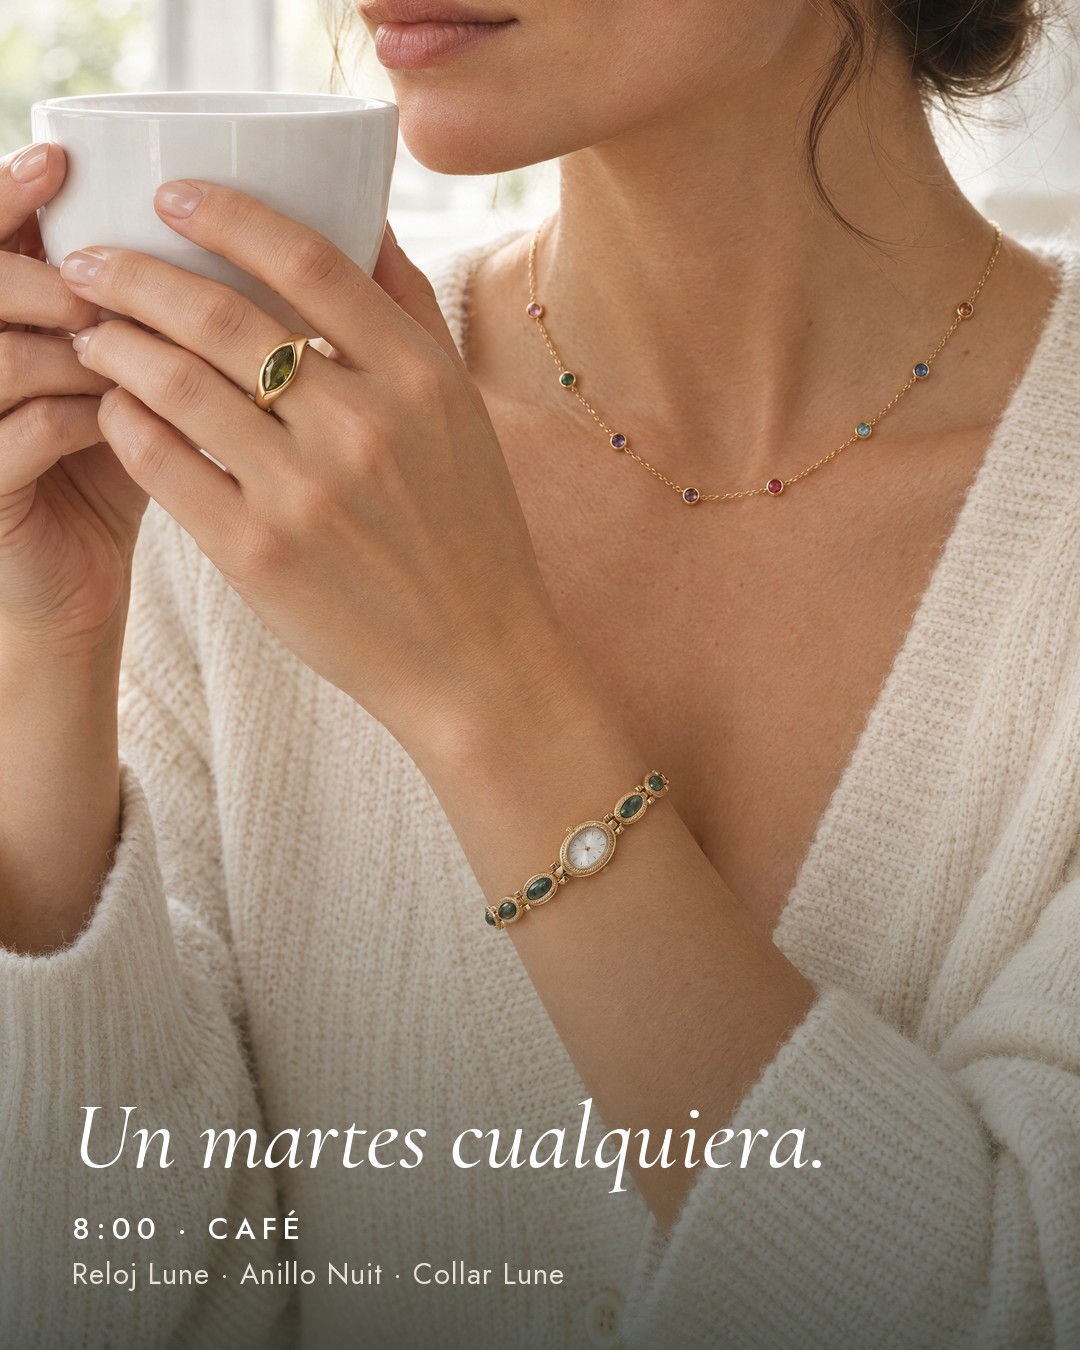
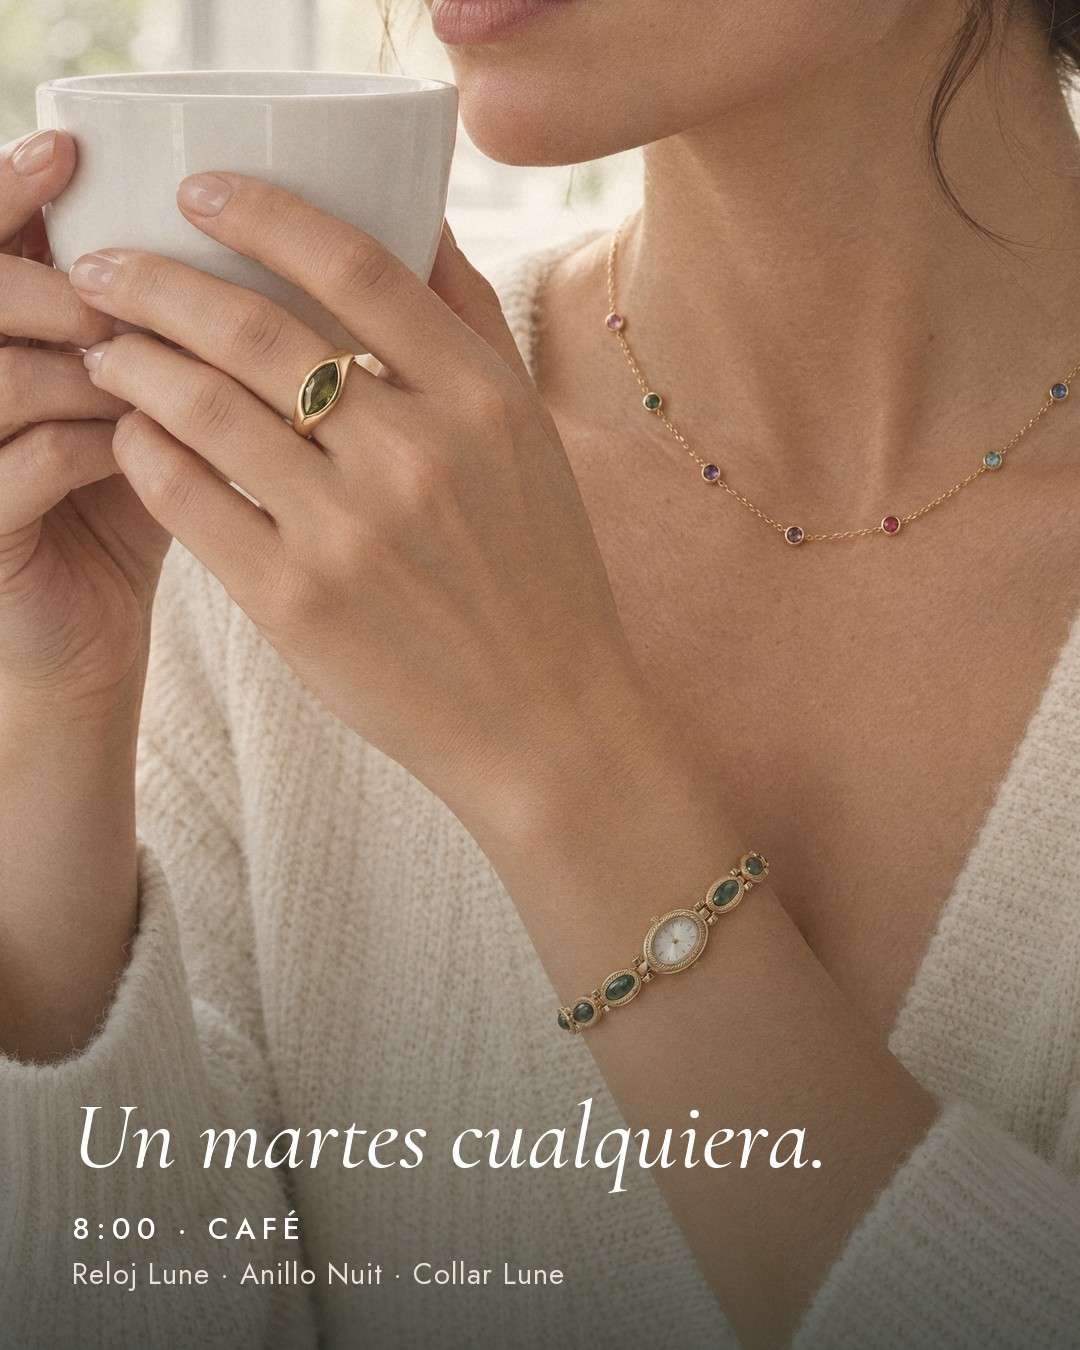
Fotos «reveladas» (menos aspecto de IA y encuadre más cerca de las joyas) en la portada y el carrusel del martes

diff --git a/marca/revelar.py b/marca/revelar.py
@@ -1,0 +1,60 @@
+"""«Revelado» de las fotos de IA para que no parezcan de IA (3-nov, Edu: «se ven muy IA» y «los relojes salen algo
+pequeños»): encuadre más cerca de las joyas (el reloj ocupa más foto sin agrandarlo respecto a la muñeca: la esfera
+mide 12 mm) y acabado de película (algo más cálido y menos saturado, negros levantados, luces suaves, viñeta ligera
+y grano). No cambia ninguna pieza.
+    python marca/revelar.py [nombre ...]   →   marca/fotos-ia/portada-dia/revelado/<nombre>.jpg
+"""
+import pathlib, sys
+import numpy as np
+from PIL import Image, ImageFilter
+
+DIA = pathlib.Path(__file__).resolve().parent / "fotos-ia" / "portada-dia"
+SALIDA = DIA / "revelado"
+# salida: (foto original, zoom, centro x, centro y) — el centro, donde están el reloj y las joyas
+ENCUADRE = {
+    "izquierda-1": ("izquierda-1", 1.15, 0.40, 0.46), "centro-2": ("centro-2", 1.12, 0.52, 0.45),
+    "derecha-2": ("derecha-2", 1.10, 0.50, 0.45), "metro-1": ("metro-1", 1.12, 0.40, 0.45),
+    "trabajo-1": ("trabajo-1", 1.15, 0.60, 0.40), "mercado-1": ("mercado-1", 1.12, 0.55, 0.45),
+    # para el carrusel (4:5): la apaisada sin acercar, o el reloj queda pegado al borde de abajo
+    "centro-2-entera": ("centro-2", 1.0, 0.5, 0.5),
+}
+
+
+def acercar(im, zoom, cx, cy):
+    w, h = im.size
+    cw, ch = w / zoom, h / zoom
+    x = min(max(cx * w - cw / 2, 0), w - cw)
+    y = min(max(cy * h - ch / 2, 0), h - ch)
+    return im.crop((round(x), round(y), round(x + cw), round(y + ch))).resize((w, h), Image.LANCZOS)
+
+
+def pelicula(im, semilla=7):
+    a = np.asarray(im.convert("RGB"), dtype=np.float32) / 255
+    # color: un poco menos saturado y más cálido
+    gris = a @ np.array([0.299, 0.587, 0.114], dtype=np.float32)
+    a = gris[..., None] + (a - gris[..., None]) * 0.88
+    a *= np.array([1.025, 1.0, 0.965], dtype=np.float32)
+    # curva: negros levantados y luces que no llegan al blanco puro
+    a = 0.035 + a * 0.93
+    a = a + 0.04 * np.sin(np.pi * a) * (0.5 - a)        # contraste suave en S, invertido en los extremos
+    # viñeta ligera
+    h, w = gris.shape
+    yy, xx = np.mgrid[0:h, 0:w].astype(np.float32)
+    r = np.sqrt(((xx - w / 2) / (w / 2)) ** 2 + ((yy - h / 2) / (h / 2)) ** 2)
+    a *= (1 - 0.10 * np.clip(r - 0.55, 0, None) ** 1.6)[..., None]
+    # grano: ruido de luminancia, algo más visible en los medios tonos, con tamaño de ~1,5 px
+    rng = np.random.default_rng(semilla)
+    ruido = Image.fromarray(((rng.standard_normal((h, w)) * 0.5 + 0.5).clip(0, 1) * 255).astype(np.uint8))
+    ruido = np.asarray(ruido.filter(ImageFilter.GaussianBlur(0.8)), dtype=np.float32) / 255 - 0.5
+    lum = a.mean(axis=2, keepdims=True)
+    a += ruido[..., None] * 0.09 * (0.4 + 0.6 * (1 - np.abs(lum - 0.5) * 2))
+    return Image.fromarray((a.clip(0, 1) * 255).astype(np.uint8))
+
+
+if __name__ == "__main__":
+    SALIDA.mkdir(parents=True, exist_ok=True)
+    for i, n in enumerate(sys.argv[1:] or ENCUADRE):
+        fuente, *encuadre = ENCUADRE[n]
+        im = acercar(Image.open(DIA / f"{fuente}.png").convert("RGB"), *encuadre)
+        pelicula(im, semilla=i + 7).save(SALIDA / f"{n}.jpg", quality=90, optimize=True, progressive=True)
+        print("ok", n)

diff --git a/marca/martes.py b/marca/martes.py
@@ -9,7 +9,7 @@ from PIL import Image, ImageDraw
 from campana_bf import ESTILOS, FOTOS, NIEBLA, TINTA, ORO, degradado, linea, recorte
 
 SALIDA = FOTOS / "martes"
-DIA = FOTOS / "portada-dia"
+DIA = FOTOS / "portada-dia" / "revelado"   # 3-nov: con el revelado de marca/revelar.py
 W, H, M = 1080, 1350, 72
 ESTILOS.update({
     "hora": ("Jost.ttf", 30, 500, (255, 255, 255), 6, True),
@@ -21,12 +21,12 @@ ESTILOS.update({
 })
 # foto, punto del recorte (x, y), hora, piezas que se ven; la primera lleva además el gancho
 DIAPOSITIVAS = [
-    ("izquierda-1.png", (0.45, 0.5), "8:00 · café", "Reloj Lune · Anillo Nuit · Collar Lune"),
-    ("metro-1.png", (0.5, 0.5), "8:40 · metro", "Reloj Galet · Anillo Nuit"),
-    ("trabajo-1.png", (0.5, 0.5), "11:00 · trabajo", "Reloj Perle · Anillo Duo"),
-    ("mercado-1.png", (0.5, 0.5), "13:30 · mercado", "Reloj Lune · Anillo Étoile"),
-    ("centro-2.png", (0.53, 0.5), "17:00 · una pausa", "Reloj Maille · Aros Boucle · Anillo Duo"),
-    ("derecha-2.png", (0.5, 0.5), "20:30 · una copa", "Reloj Sépia · Anillo Étoile · Pendientes Larme"),
+    ("izquierda-1.jpg", (0.5, 0.5), "8:00 · café", "Reloj Lune · Anillo Nuit · Collar Lune"),
+    ("metro-1.jpg", (0.5, 0.5), "8:40 · metro", "Reloj Galet · Anillo Nuit"),
+    ("trabajo-1.jpg", (0.5, 0.5), "11:00 · trabajo", "Reloj Perle · Anillo Duo"),
+    ("mercado-1.jpg", (0.5, 0.5), "13:30 · mercado", "Reloj Lune · Anillo Étoile"),
+    ("centro-2-entera.jpg", (0.53, 0.5), "17:00 · una pausa", "Reloj Maille · Aros Boucle · Anillo Duo"),
+    ("derecha-2.jpg", (0.5, 0.5), "20:30 · una copa", "Reloj Sépia · Anillo Étoile · Pendientes Larme"),
 ]
 
 

diff --git a/CLAUDE.md b/CLAUDE.md
@@ -552,7 +552,7 @@ la 1 el Maille salía redondo— y derecha-2), archivos de Shopify `portada-dia-
 revés (la grande a la izquierda). Volver a las de Navidad: `foto = 'portada-navidad-'` en `hero-navidad`.
 Más tarde (Edu: «más grandes y a todo el ancho»): en PC las tres a todo el ancho (`aspect-ratio: 2.35/1`, 27,5 % +
 46 % + 27,5 %) y en el móvil más grandes y con zoom hacia las joyas (`transform: scale` por foto, dentro de
-`.lu-hn__recorte` para no tapar el borde de papel).
+`.lu-hn__recorte` para no tapar el borde de papel). **Revelado** (Edu: «se ven muy IA», «los relojes algo pequeños»): `marca/revelar.py` → `portada-dia/revelado/` (encuadre más cerca de las joyas, sin agrandar el reloj respecto a la muñeca: la esfera mide 12 mm, y acabado de película: más cálido, menos saturado, negros levantados, viñeta y grano). Las 3 de la portada se cambiaron en Shopify con `fileUpdate` (mismo nombre) y el carrusel del martes las usa.
 **Enfoque «para llevar cada día»** (Edu: en Instagram y en una campaña futura): ideas del estratega en
 `oficina/ideas/2026-11-03-cada-dia.md`. Hecho el carrusel **«Un martes cualquiera»** (`marca/martes.py` →
 `marca/fotos-ia/martes/1-7.jpg`): 6 horas del día (café, metro, trabajo, mercado, pausa, copa) con las 11 piezas y la
